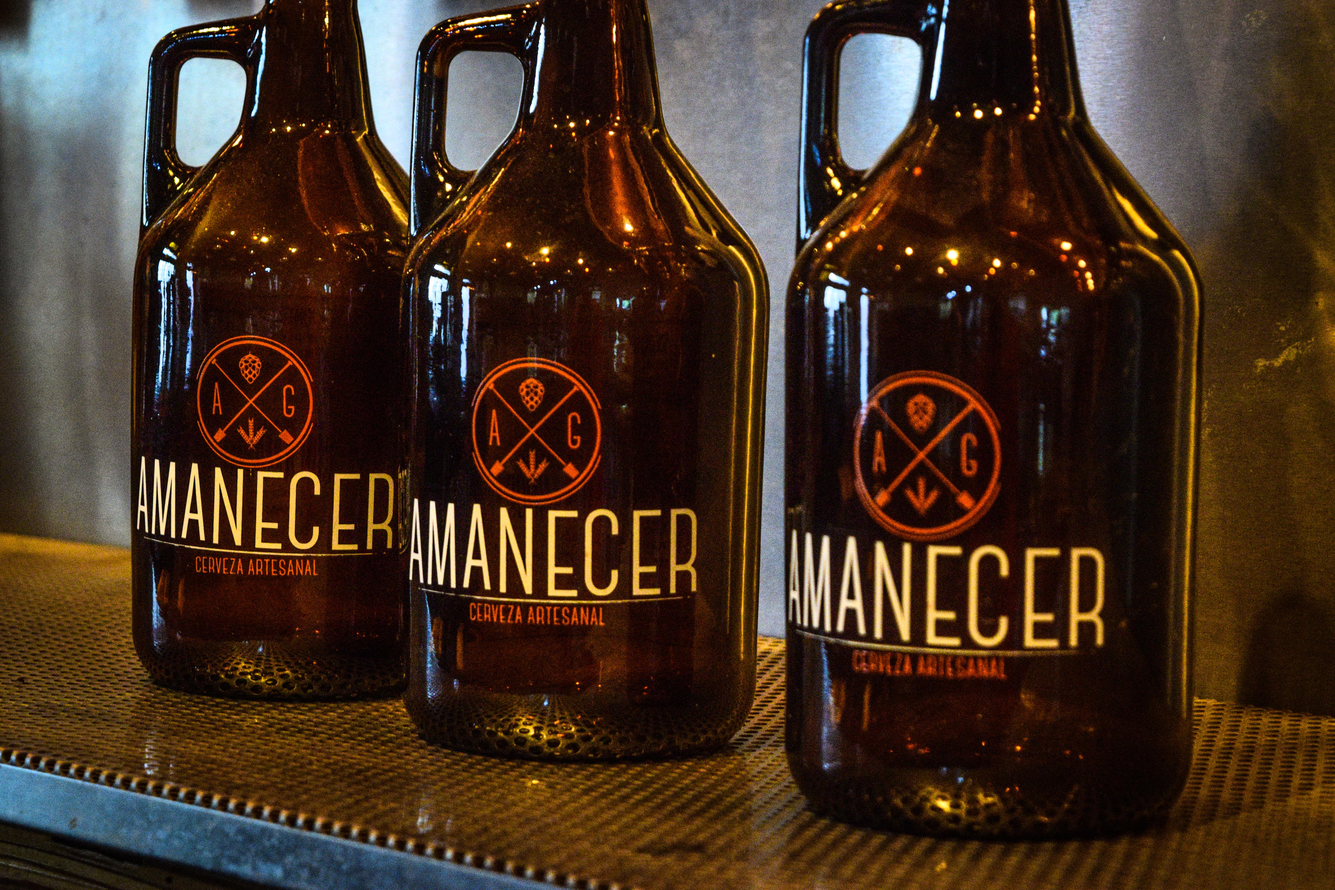
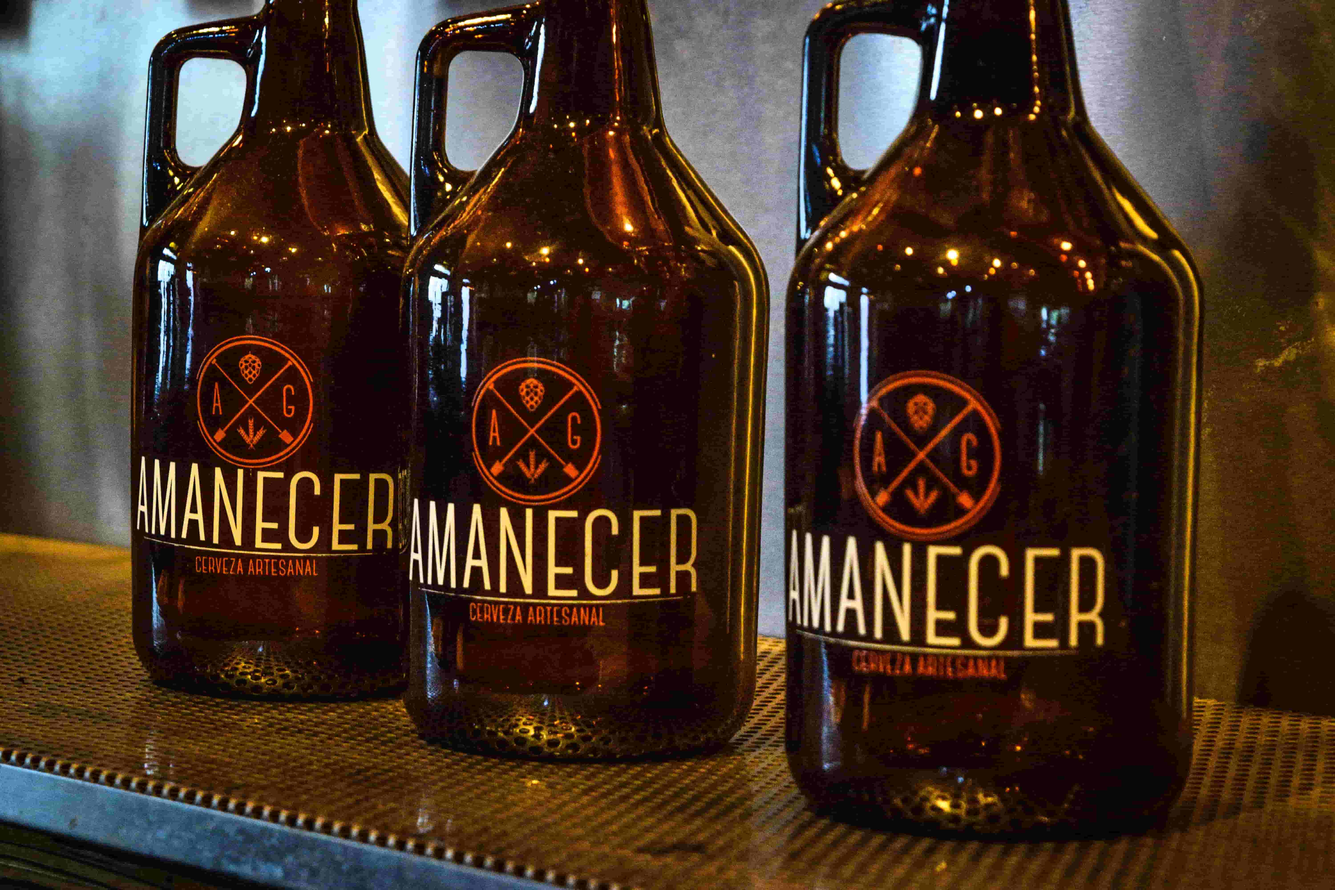
optimizacion de imagenes

diff --git a/public/css/index.css b/public/css/index.css
@@ -121,6 +121,11 @@ article a img{
     width: 100%;
 }
 
+._img{
+    width: 100%;
+    height: 50%;
+}
+
 @media (min-width: 1024px){
     .images-local{
         flex-direction: row;
